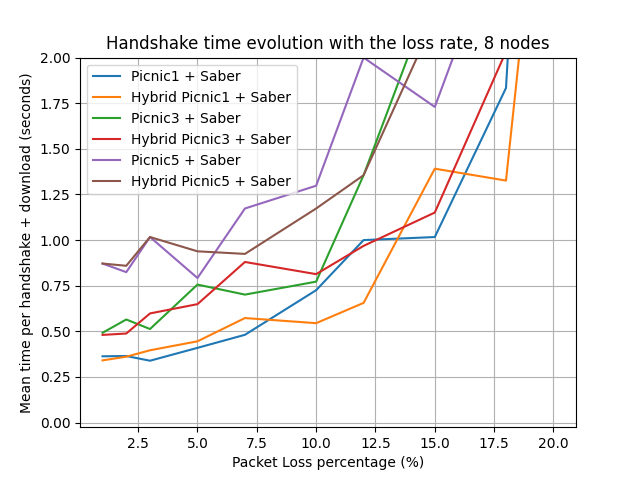
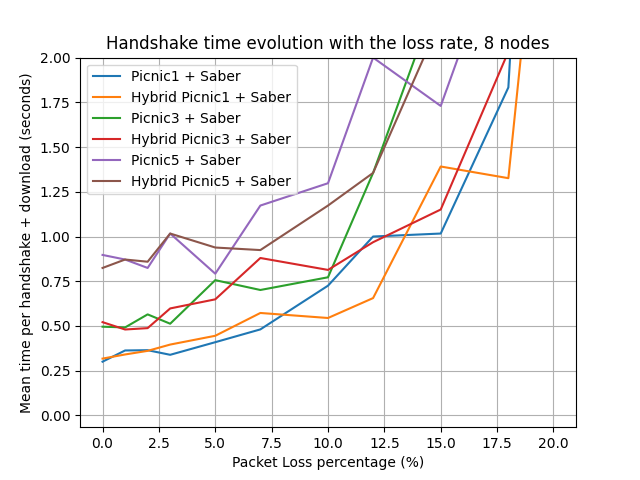
30/12 - new exploitations

diff --git a/computing_results.py b/computing_results.py
@@ -235,19 +235,20 @@ def hybrid_graph(data_qq, data_hq, data_qh, data_hh, nodes, title, filename, kex
     if all_same:
         f = get_mean_RTT
     else:
-        f = get_rtt_min_loss
+        def f(a, b):
+            return get_rtt_min_loss(a, b)[0]
 
     x.append(kex + "\n" + sig)
-    y.append(f(data_qq, nodes)[0])
+    y.append(f(data_qq, nodes))
 
     x.append("Hybrid " + kex + "\n" + sig)
-    y.append(f(data_hq, nodes)[0])
+    y.append(f(data_hq, nodes))
 
     x.append(kex + "\n" + "Hybrid " + sig)
-    y.append(f(data_qh, nodes)[0])
+    y.append(f(data_qh, nodes))
 
     x.append("Hybrid " + kex + "\n" + "Hybrid " + sig)
-    y.append(f(data_hh, nodes)[0])
+    y.append(f(data_hh, nodes))
 
     plt.bar(x, y)
     plt.ylabel("Mean time per handshake + download (seconds)")
@@ -278,7 +279,7 @@ HrainVc_Hkyber1024 = get_experiments(make_filename("rainbowVc", "kyber1024", new
 
 hybrid_graph(rainVc_kyber1024, HrainVc_kyber1024, rainVc_Hkyber1024, HrainVc_Hkyber1024, "8",
              "Hybrid comparisons for low loss rate values and 8 nodes\nRainbowVc + Kyber1024 (L1 schemes)",
-             "figures/HYBRID_rainbowVc_kyber1024", "Kyber1024", "RainbowVc", all_same=False, bot=10, top=16)
+             "figures/HYBRID_rainbowVc_kyber1024", "Kyber1024", "RainbowVc", all_same=True, bot=13, top=20)
 
 # Picnic Comparisons
 
@@ -312,12 +313,18 @@ old_dil2_saber = get_experiments(make_filename("dil2", "saber", new=False))
 old_dil2_firesaber = get_experiments(make_filename("dil2", "firesaber", new=False))
 old_dil2_kyber512 = get_experiments(make_filename("dil2", "kyber512", new=False))
 old_dil2_ntru1 = get_experiments(make_filename("dil2", "ntru1", new=False))
+dil2_kyber768 = get_experiments(make_filename("dil2", "kyber768", new=True))
+dil2_kyber1024 = get_experiments(make_filename("dil2", "kyber1024", new=True))
+dil2_ntru5 = get_experiments(make_filename("dil2", "ntru5", new=True))
 
 x, y = [], []
-for exp in [(old_dil2_lightsaber, "lightsaber"), (old_dil2_saber, "saber"), (old_dil2_firesaber, "firesaber"), (old_dil2_kyber512, "kyber512"), (old_dil2_ntru1, "ntru1")]:
-    res = get_mean_RTT(exp[0], "8")
-    plt.scatter(ciphertext_or_signature_sizes[exp[1]], res)
-    plt.annotate(exp[1], (ciphertext_or_signature_sizes[exp[1]], res))
+for exp in [(old_dil2_lightsaber, "lightsaber"), (old_dil2_saber, "saber"), (old_dil2_firesaber, "firesaber"),
+            (old_dil2_kyber512, "kyber512"), (old_dil2_ntru1, "ntru1"), (dil2_kyber768, "kyber768"),
+            (dil2_kyber1024, "kyber1024"), (dil2_ntru5, "ntru5")]:
+    res = get_rtt_min_loss(exp[0], "8")
+    print(res[1])
+    plt.scatter(ciphertext_or_signature_sizes[exp[1]], res[0])
+    plt.annotate(exp[1], (ciphertext_or_signature_sizes[exp[1]], res[0]))
 
 plt.plot(x, y)
 plt.xlabel("Ciphertext size in Bytes")
@@ -327,17 +334,24 @@ plt.grid()
 plt.savefig("figures/CIPHERTEXT_LOW_LOSS")
 plt.show()
 
-# LOW LOSS, SIGNATURE SIZE
+# LOW LOSS, SIGNATURE SIZE, 8 nodes
 
 old_dil4_saber = get_experiments(make_filename("dil4", "saber", new=False))
 old_fal512_saber = get_experiments(make_filename("fal512", "saber", new=False))
 old_rainbowIa_saber = get_experiments(make_filename("rainbowIa", "saber", new=False))
+dil3_saber = get_experiments(make_filename("dil3", "saber", new=True))
+fal1024_saber = get_experiments(make_filename("fal1024", "saber", new=True))
+rainbowVc_saber = get_experiments(make_filename("rainbowVc", "saber", new=True))
 
 x, y = [], []
-for exp in [(old_dil2_saber, "dil2"), (old_dil4_saber, "dil4"), (old_fal512_saber, "falcon512"), (old_rainbowIa_saber, "rainbowIa")]:
-    res = get_mean_RTT(exp[0], "8")
-    plt.scatter(ciphertext_or_signature_sizes[exp[1]], res)
-    plt.annotate(exp[1], (ciphertext_or_signature_sizes[exp[1]], res))
+for exp in [(old_dil2_saber, "dil2"), (old_dil4_saber, "dil4"), (old_fal512_saber, "falcon512"),
+            (old_rainbowIa_saber, "rainbowIa"),
+            (picnic1_saber, "picnic3l1"), (picnic3_saber, "picnic3l3"), (picnic5_saber, "picnic3l5"),
+            (fal1024_saber, "falcon1024"), (dil3_saber, "dil3")]:
+    res = get_rtt_min_loss(exp[0], "8")
+    print(res[1])
+    plt.scatter(ciphertext_or_signature_sizes[exp[1]], res[0])
+    plt.annotate(exp[1], (ciphertext_or_signature_sizes[exp[1]], res[0]))
 
 plt.plot(x, y)
 plt.xlabel("Signature size in Bytes")
@@ -352,10 +366,11 @@ plt.show()
 
 dil2_kyber768 = get_experiments(make_filename("dil2", "kyber768", new=True))
 dil2_kyber1024 = get_experiments(make_filename("dil2", "kyber1024", new=True))
-dil3_saber = get_experiments(make_filename("dil3", "saber", new=True))
+dil2_saber = get_experiments(make_filename("dil2", "saber", new=True))
 
 x, y = [], []
-for exp in [(dil2_lightsaber, "lightsaber"), (dil2_kyber768, "kyber768"), (dil2_kyber1024, "kyber1024"), (dil3_saber, "saber")]:
+for exp in [(dil2_lightsaber, "lightsaber"), (dil2_kyber768, "kyber768"), (dil2_kyber1024, "kyber1024"),
+            (dil2_saber, "saber"), (dil2_ntru5, "ntru5")]:
     res = get_mean_RTT(exp[0], "8")
     plt.scatter(ciphertext_or_signature_sizes[exp[1]], res)
     plt.annotate(exp[1], (ciphertext_or_signature_sizes[exp[1]], res))
@@ -368,14 +383,15 @@ plt.grid()
 plt.savefig("figures/CIPHERTEXT_HIGH_LOSS")
 plt.show()
 
-# HIGH LOSS, CIPHERTEXT SIZE
+# HIGH LOSS, SIGNATURE SIZE
 
 dil2_Hsaber = get_experiments(make_filename("dil2", "saber", h_kex=True, new=True))
 fal512_Hsaber = get_experiments(make_filename("fal512", "saber", h_kex=True, new=True))
 rainIa_Hsaber = get_experiments(make_filename("rainbowIa", "saber", h_kex=True, new=True))
 
 x, y = [], []
-for exp in [(dil2_Hsaber, "dil2"), (dil4_firesaber, "dil4"), (fal512_Hsaber, "falcon512"), (picnic1_saber, "picnic3l1"), (picnic3_saber, "picnic3l3"), (picnic5_saber, "picnic3l5"), (rainIa_Hsaber, "rainbowIa")]:
+for exp in [(dil2_Hsaber, "dil2"), (dil4_firesaber, "dil4"), (fal512_Hsaber, "falcon512"), (picnic1_saber, "picnic3l1"),
+            (picnic3_saber, "picnic3l3"), (picnic5_saber, "picnic3l5"), (rainIa_Hsaber, "rainbowIa")]:
     res = get_mean_RTT(exp[0], "8")
     plt.scatter(ciphertext_or_signature_sizes[exp[1]], res)
     plt.annotate(exp[1], (ciphertext_or_signature_sizes[exp[1]], res))
@@ -386,4 +402,45 @@ plt.ylabel("Mean time per handshake + download (seconds)")
 plt.title("Completion time evoluting with signature size for high loss rate, 8 nodes.")
 plt.grid()
 plt.savefig("figures/SIGNATURE_HIGH_LOSS")
+plt.show()
+
+# LOW LOSS, 16 NODES, CIPHERTEXT SIZE
+
+x, y = [], []
+for exp in [(old_dil2_lightsaber, "lightsaber"), (dil2_saber, "saber"), (old_dil2_firesaber, "firesaber"),
+            (old_dil2_kyber512, "kyber512"), (old_dil2_ntru1, "ntru1"), (dil2_kyber768, "kyber768"),
+            (dil2_kyber1024, "kyber1024"), (dil2_ntru5, "ntru5")]:
+    res = get_rtt_min_loss(exp[0], "16")
+    print(res[1])
+    plt.scatter(ciphertext_or_signature_sizes[exp[1]], res[0])
+    plt.annotate(exp[1], (ciphertext_or_signature_sizes[exp[1]], res[0]))
+
+plt.plot(x, y)
+plt.xlabel("Ciphertext size in Bytes")
+plt.ylabel("Mean time per handshake + download (seconds)")
+plt.title("Completion time evoluting with ciphertext size for low loss rate, 16 nodes.")
+plt.grid()
+plt.savefig("figures/CIPHERTEXT_HIGH_NODES")
+plt.show()
+
+
+# LOW LOSS, 16 NODES, SIGNATURE SIZE
+
+x, y = [], []
+for exp in [(dil2_saber, "dil2"), (old_dil4_saber, "dil4"), (old_fal512_saber, "falcon512"),
+            (old_rainbowIa_saber, "rainbowIa"),
+            (picnic1_saber, "picnic3l1"), (picnic3_saber, "picnic3l3"), (picnic5_saber, "picnic3l5"),
+            (fal1024_saber, "falcon1024")]:
+    print(exp[1])
+    res = get_rtt_min_loss(exp[0], "16")
+    print(res[1])
+    plt.scatter(ciphertext_or_signature_sizes[exp[1]], res[0])
+    plt.annotate(exp[1], (ciphertext_or_signature_sizes[exp[1]], res[0]))
+
+plt.plot(x, y)
+plt.xlabel("Signature size in Bytes")
+plt.ylabel("Mean time per handshake + download (seconds)")
+plt.title("Completion time evoluting with signature size for low loss rate, 16 nodes.")
+plt.grid()
+plt.savefig("figures/SIGNATURE_LOW_LOSS")
 plt.show()
